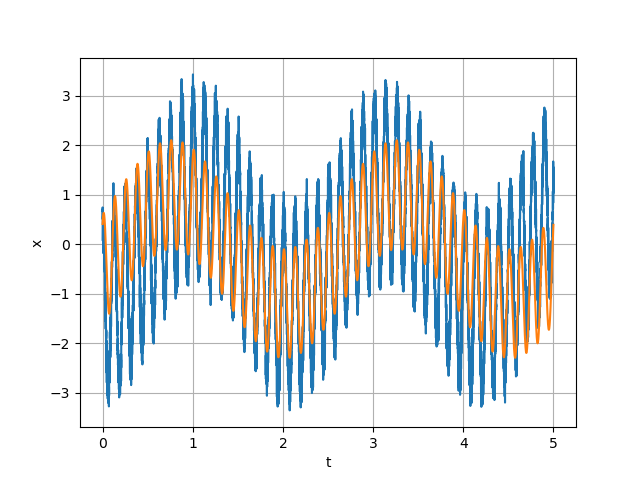
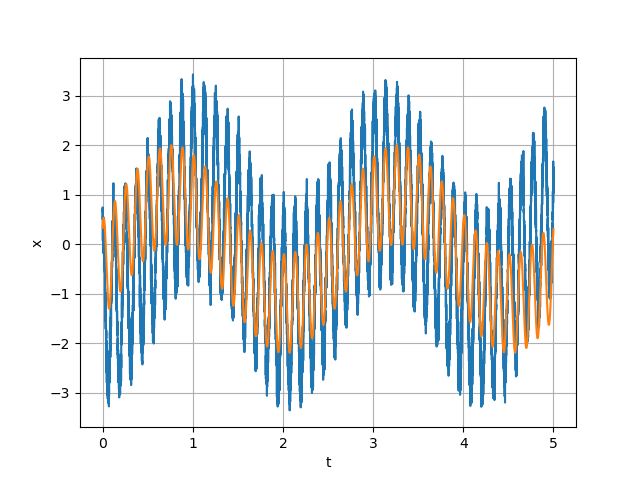
modification

diff --git a/class_Fit.py b/class_Fit.py
@@ -95,7 +95,7 @@ class fitting:
                 for k in c:
                     for t1 in theta1:
                         for t2 in theta2:
-                            if i==a[0]:
+                            if (i==a[0] and j==b[0] and k==c[0] and t1==theta1[0] and t2==theta2[0]):
                                 yt=g(self.t,i,j,t1,t2,w1,w2,k)
                                 chi=chi2(self.q,yt)
                                 dat=[i,j,t1,t2,w1,w2,k]
